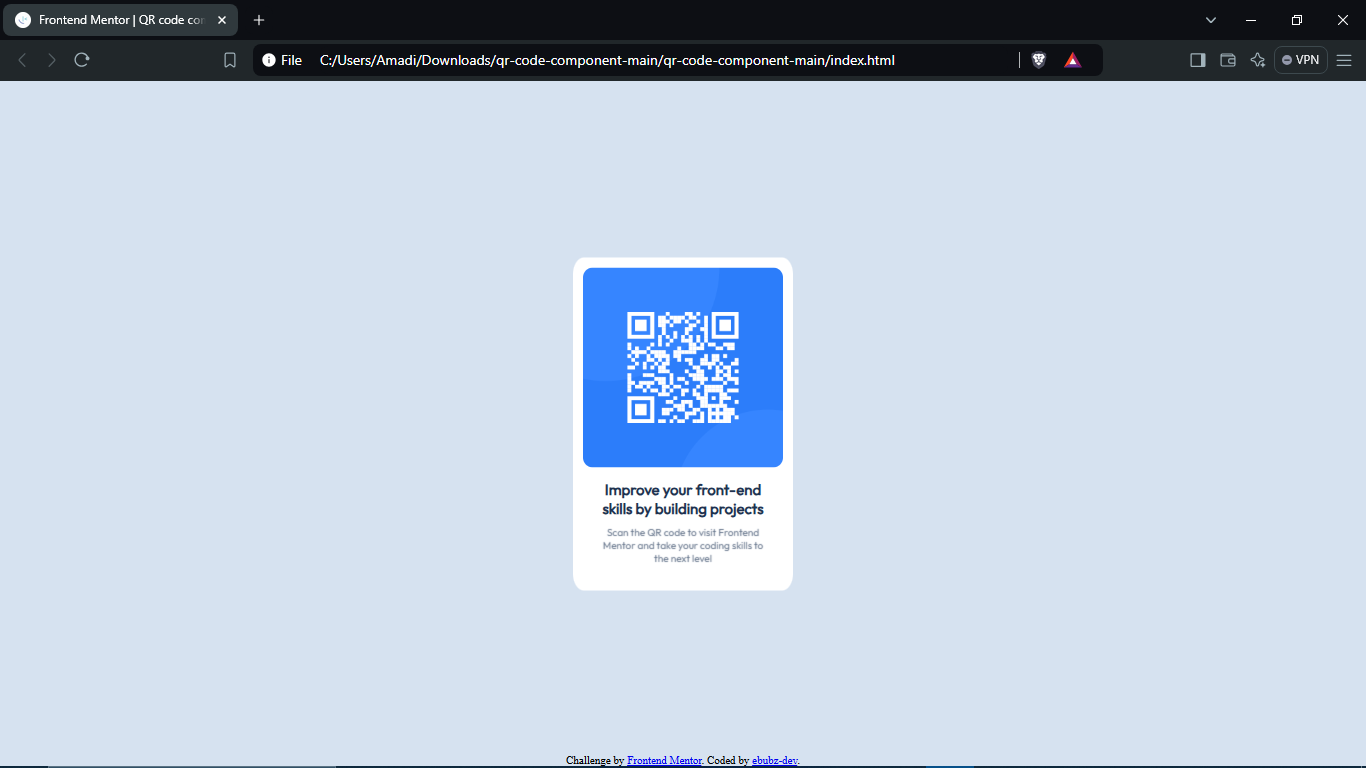
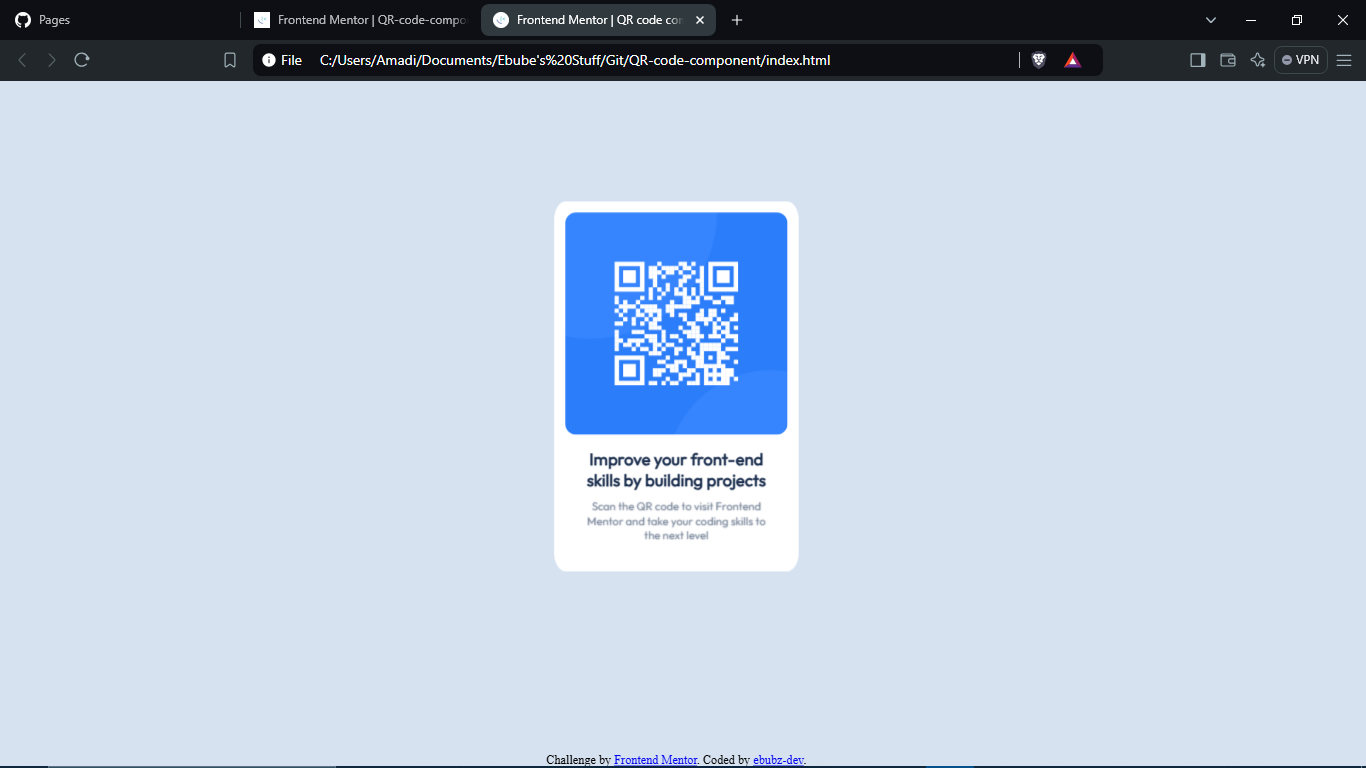
second commit

Changed region(s): [[0.3997, 0.25, 0.5842, 0.7812], [0.0, 0.0, 0.6457, 0.0938], [0.3997, 0.9688, 0.5842, 1.0]]

diff --git a/index.html b/index.html
@@ -12,7 +12,8 @@
 
 </head>
 <body>
-  <div class="container">
+  <h1></h1>
+  <div class="container" role="main">
     <div>
       <img src="./images/image-qr-code.png" alt="image-qr-code">
     </div>
@@ -21,11 +22,7 @@
       <p class="bottom">Scan the QR code to visit Frontend<br>Mentor and take your coding skills to<br>the next level</p>
     </div>
   </div>
-  
-
-  
-  
-  <div class="attribution">
+  <div class="attribution" role="contentinfo">
     Challenge by <a href="https://www.frontendmentor.io?ref=challenge" target="_blank" rel="noopener">Frontend Mentor</a>. 
     Coded by <a href="#">ebubz-dev</a>.
   </div>

diff --git a/style.css b/style.css
@@ -21,6 +21,8 @@ a .attribution {
     text-align: center;
     padding: 10px;
     border-radius: 5%;
+    -webkit-backdrop-filter: blur(3px);
+    backdrop-filter: blur(3px);
   }
   .bold {
     font-weight: 700;
@@ -33,13 +35,13 @@ a .attribution {
   }
   p {
     font-size: 10px;
-    font-weight: light;
+    font-weight: 400;
     color: hsl(216, 15%, 48%);
     margin: 0.5rem;
     font-family: "Outfit";
   }
   .container img {
-    height: auto;
-    width:200px;
+    height: 200px;
+    width: auto;
     border-radius: 5%;
   }
